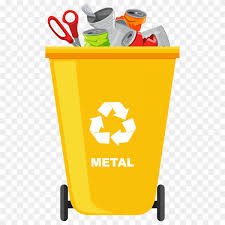
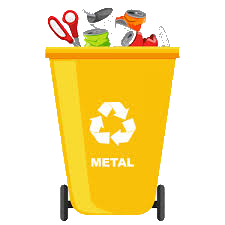
Fixed images

diff --git a/RecyclingHero.java b/RecyclingHero.java
@@ -8,6 +8,8 @@ import java.util.List;
 import java.util.Random;
 
 public class RecyclingHero extends JFrame {
+    private ImagePanel binsPanel;
+    
     BufferedImage glassImage = null;
     BufferedImage plasticImage = null;
     BufferedImage metalImage = null;
@@ -29,7 +31,7 @@ public class RecyclingHero extends JFrame {
             plasticImage = ImageIO.read(new File("Resources/plasticBin.png"));
             metalImage = ImageIO.read(new File("Resources/metalBin.png"));
             paperImage = ImageIO.read(new File("Resources/goodPaperBin.png"));
-            trashImage = ImageIO.read(new File("Resources/trash bin.png"));
+            trashImage = ImageIO.read(new File("Resources/trashbin.png"));
             grassImage = ImageIO.read(new File("Resources/coolGrass.png"));
         } catch (IOException e) {
             e.printStackTrace();
@@ -53,14 +55,14 @@ public class RecyclingHero extends JFrame {
         add(scoreBoard);
 
         // Create bins panel with grass background image
-        ImagePanel binsPanel = new ImagePanel(grassImage);
+        binsPanel = new ImagePanel(grassImage);
         binsPanel.setLayout(null);
         binsPanel.setBounds(0, 50, this.getWidth(), this.getHeight() - scoreBoard.getHeight());
 
         // Add bins to binsPanel at random positions without overlap
         Random random = new Random();
         for (BinType type : level.getItemTypes()) {
-            Point newLocation = generateRandomPosition(binsPanel, 100, 100); // 100x100 size for bins
+            Point newLocation = generateRandomPosition(binsPanel, 200, 200); // 100x100 size for bins
             JLabel bin = createBin(type, newLocation);
             binsPanel.add(bin);
         }
@@ -68,10 +70,9 @@ public class RecyclingHero extends JFrame {
         // Add draggable items to binsPanel at fixed positions
         for (int i = 0; i < level.getItemCount(); i++) {
             // Define fixed positions for items
-            int xPosition = 100 * (i % 5);  // Fixed horizontal pattern
-            int yPosition = 400 + (i / 5) * 120; // Vertical space between items
+            Point newLocation = generateRandomPosition(binsPanel, 200, 200);
             BinType type = level.getItemTypes()[i % level.getItemTypes().length];
-            JLabel item = createThrowableItem(type, new Point(xPosition, yPosition));
+            JLabel item = createThrowableItem(type, new Point(newLocation.x, newLocation.y));
             binsPanel.add(item);
         }
 
@@ -88,8 +89,8 @@ public class RecyclingHero extends JFrame {
         Point point;
         do {
             overlap = false;
-            int x = random.nextInt(container.getWidth() - width);
-            int y = random.nextInt(container.getHeight() - height-75) + 50; // Adjust for scoreboard offset
+            int x = random.nextInt(binsPanel.getWidth() - width);
+            int y = random.nextInt(Math.max(1, binsPanel.getHeight() - height - 50)) + 50;
             point = new Point(x, y);
 
             // Check for overlap with existing components (bins only)

diff --git a/Bin.java b/Bin.java
@@ -16,10 +16,10 @@ public class Bin extends JLabel {
         this.type = type;
         this.location = new Point(0, 0);
         setTransferHandler(new TransferHandler("text"));
-        setBorder(BorderFactory.createLineBorder(Color.BLACK));
-        setSize(new Dimension(100, 100));
+        setBorder(null);
+        setSize(new Dimension(200, 200));
         setOpaque(true);
-        setBackground(Color.CYAN);
+        setBackground(new Color(0, 0, 0, 0));
     }
 
     public Bin(BinType type, Point location) {
@@ -32,12 +32,11 @@ public class Bin extends JLabel {
         this.binImage = binImage;
 
         // Set the position and size of the bin
-        setBounds(location.x, location.y, 100, 100);  // Adjust size as needed
+        setBounds(location.x, location.y, 200, 200);  // Adjust size as needed
 
-
-        if (binImage != null) {
+        if (this.binImage != null) {
             // Set image as the icon if available
-            setIcon(new ImageIcon(binImage.getScaledInstance(100, 100, Image.SCALE_DEFAULT)));
+            setIcon(new ImageIcon(this.binImage.getScaledInstance(200, 200, Image.SCALE_DEFAULT)));
         } else {
             // If no image, display a color for differentiation
             setOpaque(true);

diff --git a/LevelManager.java b/LevelManager.java
@@ -16,9 +16,15 @@ public class LevelManager {
 
     private void loadLevels() {
         // Example levels
-        levels.add(new Level(1, 5, 60, new BinType[]{BinType.GLASS, BinType.PLASTIC}));
-        levels.add(new Level(2, 10, 90, new BinType[]{BinType.GLASS, BinType.PLASTIC, BinType.METAL}));
-        levels.add(new Level(3, 15, 120, new BinType[]{BinType.GLASS, BinType.PLASTIC, BinType.METAL, BinType.PAPER}));
+        levels.add(new Level(1, 5, 60, new BinType[]{BinType.GLASS, BinType.TRASH}));
+        levels.add(new Level(2, 10, 90, new BinType[]{BinType.GLASS, BinType.TRASH, BinType.PLASTIC}));
+        levels.add(new Level(3, 15, 120, new BinType[]{BinType.GLASS, BinType.TRASH, BinType.PLASTIC, BinType.METAL}));
+        levels.add(new Level(3, 15, 120, new BinType[]{BinType.GLASS, BinType.TRASH, BinType.PLASTIC, BinType.METAL,
+            BinType.PAPER}));
+        levels.add(new Level(3, 20, 120, new BinType[]{BinType.GLASS, BinType.TRASH, BinType.PLASTIC, BinType.METAL,
+            BinType.PAPER}));
+        levels.add(new Level(3, 25, 120, new BinType[]{BinType.GLASS, BinType.TRASH, BinType.PLASTIC, BinType.METAL,
+            BinType.PAPER}));
     }
 
     public Level getCurrentLevel() {

diff --git a/ThrowableItem.java b/ThrowableItem.java
@@ -76,8 +76,8 @@ public class ThrowableItem extends JLabel {
             @Override
             public void run() {
                 // Apply friction
-                velocity.x *= 0.99;
-                velocity.y *= 0.99;
+                velocity.x *= 0.98;
+                velocity.y *= 0.98;
 
                 // Update position
                 position.x += velocity.x;
